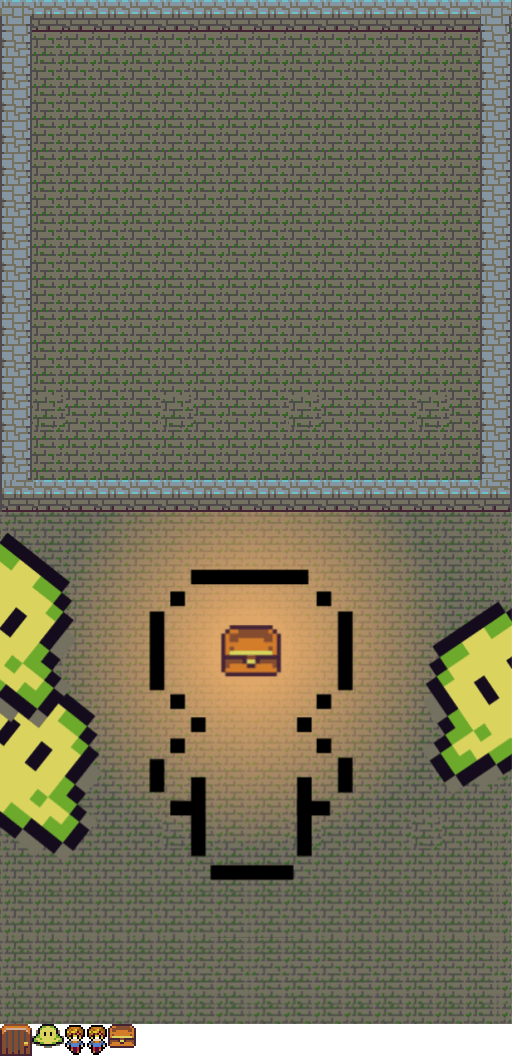
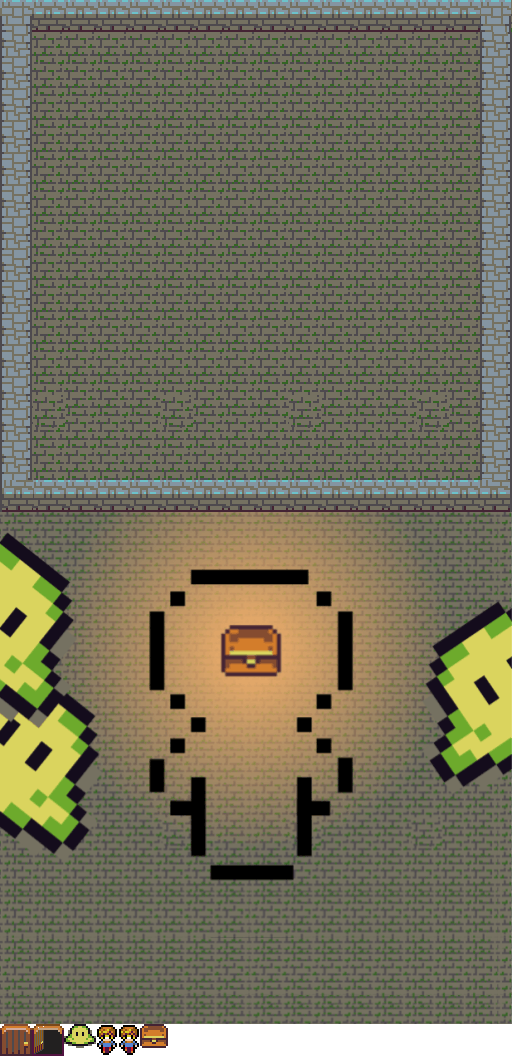
d

Changed region(s): [[0.0625, 0.9688, 0.3438, 1.0]]

diff --git a/public/main-3.js b/public/main-3.js
@@ -23,7 +23,10 @@ function setup() {
     pointer = Pebble.Pointer(canvas.domElement);
     world = new World({
         dungeon: Pebble.Sprite(assets["dungeon.png"]),
-        exit: Pebble.Sprite(assets["door.png"]),
+        exit: Pebble.Sprite([
+            assets["door.png"],
+            assets["open-door.png"]
+        ]),
         treasure: Pebble.Sprite(assets["treasure.png"]),
         player: Pebble.Sprite([
             assets["explorer-0.png"],
